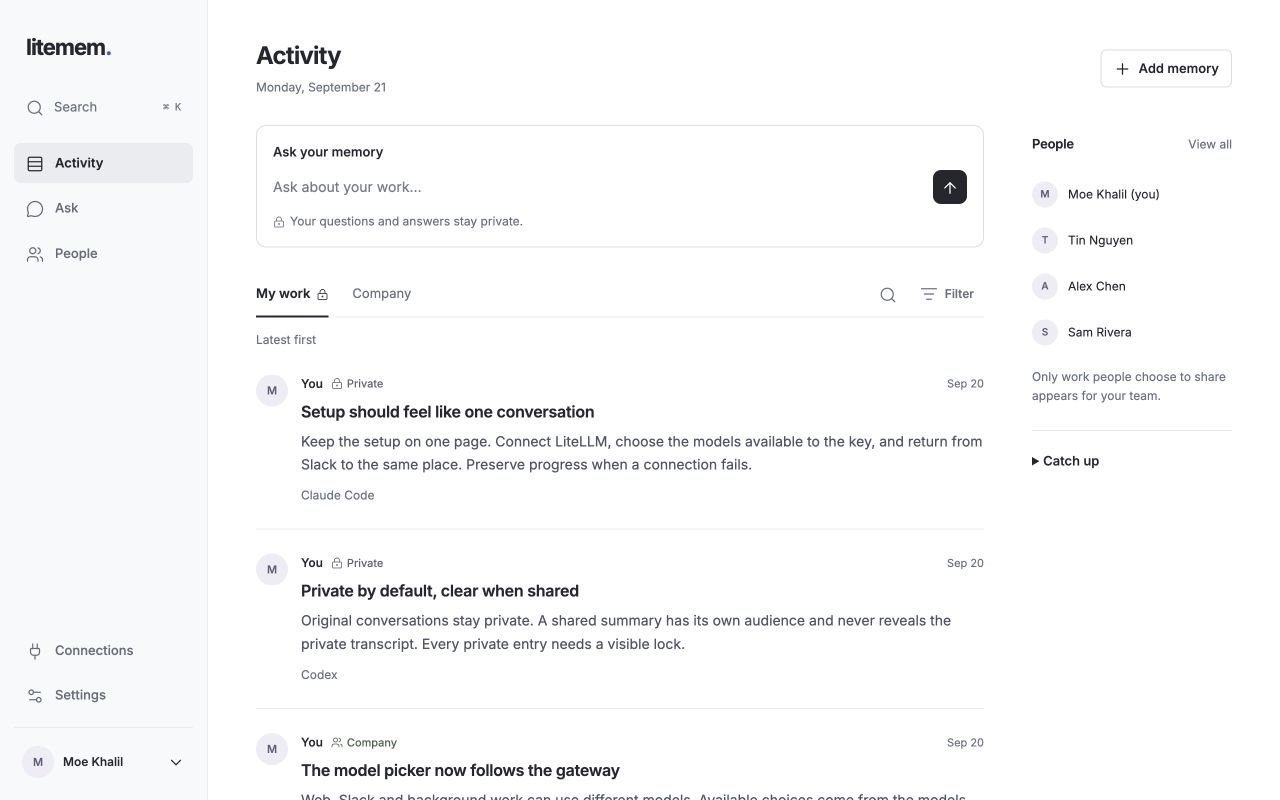
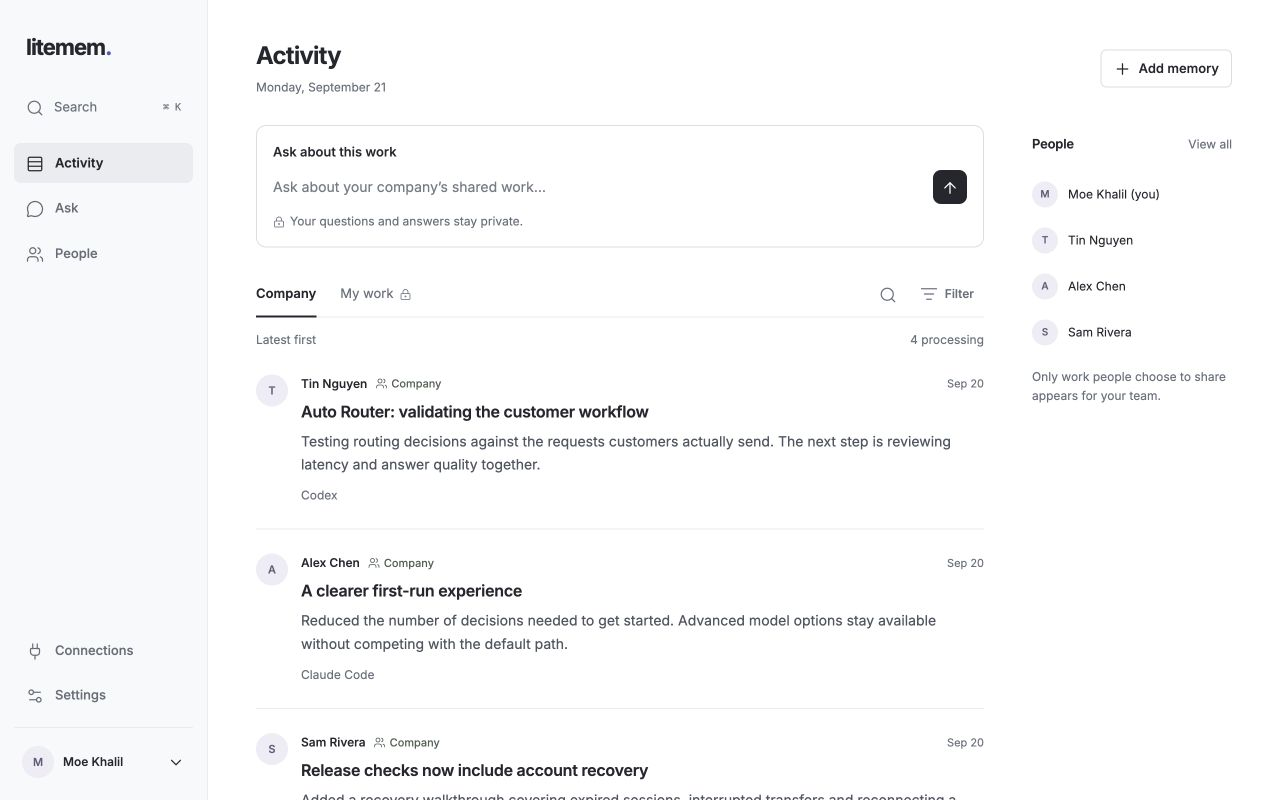
Open Activity on Company and match Ask to the selected feed

diff --git a/static/memory.html b/static/memory.html
@@ -11,7 +11,7 @@
       rel="icon"
     />
     <link href="/static/memory.css" rel="stylesheet" />
-    <script src="/static/memory.js?v=5" type="module"></script>
+    <script src="/static/memory.js?v=6" type="module"></script>
   </head>
   <body>
     <a class="skip" href="#main">Skip to content</a>
@@ -341,12 +341,12 @@
             <div class="activity-main">
               <form class="home-ask" id="home-ask-form">
                 <label class="home-ask-label" for="home-question"
-                  >Ask your memory</label
+                  >Ask about this work</label
                 ><input
                   autocomplete="off"
                   id="home-question"
                   maxlength="16000"
-                  placeholder="Ask anything about your work…"
+                  placeholder="Ask about your company’s shared work…"
                 /><button aria-label="Ask" class="send-button" type="submit">
                   <span data-icon="arrow"></span>
                 </button>
@@ -370,16 +370,12 @@
                   <button
                     aria-pressed="true"
                     class="selected"
-                    data-feed="mine"
-                    id="mine-tab"
-                  >
-                    My work <span data-icon="lock"></span></button
-                  ><button
-                    aria-pressed="false"
                     data-feed="shared"
                     id="shared-tab"
                   >
-                    Company
+                    Company</button
+                  ><button aria-pressed="false" data-feed="mine" id="mine-tab">
+                    My work <span data-icon="lock"></span>
                   </button>
                 </div>
                 <div class="feed-tools-end">

diff --git a/static/memory.js b/static/memory.js
@@ -11,7 +11,7 @@ const state = {
   me: null,
   people: [],
   view: "home",
-  feed: "mine",
+  feed: "shared",
   person: null,
   next: null,
   feedVersion: 0,
@@ -377,7 +377,9 @@ async function loadFeed(append = false) {
   $("home-question").placeholder =
     state.person && state.person !== state.me.id
       ? `Ask about ${profile(state.person).name}’s shared work…`
-      : "Ask about your work…";
+      : state.feed === "shared"
+        ? "Ask about your company’s shared work…"
+        : "Ask about your work…";
   if (!append) {
     state.overviewVersion++;
     $("overview-content").replaceChildren();
@@ -946,7 +948,9 @@ function updateScope() {
     : null;
   $("question").placeholder = person
     ? `Ask about ${person}’s shared work…`
-    : "Ask about your work…";
+    : scope === "shared"
+      ? "Ask about your company’s shared work…"
+      : "Ask about your work…";
   $("chat-scope-description").textContent = person
     ? `Answers use only the work ${person} has shared with you.`
     : scope === "shared"
@@ -1692,7 +1696,9 @@ $("home-ask-form").onsubmit = async (event) => {
   const scope =
     state.person && state.person !== state.me.id
       ? `person:${state.person}`
-      : "mine";
+      : state.feed === "shared"
+        ? "shared"
+        : "mine";
   if (!(await changeScope(scope))) return;
   $("home-question").value = "";
   await ask(question);

diff --git a/docs/member-guide.md b/docs/member-guide.md
@@ -14,7 +14,7 @@ An encrypted local outbox retries uploads when you are offline. **Settings → R
 
 ## Browse and ask
 
-**Activity** shows your work newest first. Private items have a lock and a **Private** label. **Company** shows company publications, without a recommendation algorithm. Filters narrow by person, source, type and date; search also uses searchable metadata. Missing original dates stay unknown.
+**Activity** opens on **Company**, showing company publications newest first, without a recommendation algorithm. **My work** is the second tab and shows your own private and shared records. Private items have a lock and a **Private** label. The Activity question box asks about the selected feed. Filters narrow by person, source, type and date; search also uses searchable metadata. Missing original dates stay unknown.
 
 Use the question box on Activity or open **Ask**. Choose a model from your gateway's available models, ask about your own work or choose a person, and open citations to inspect the evidence. You can ask follow-up questions within the same scope. Changing person or audience asks before clearing an existing conversation. Browser Back returns to the previous view.
 

diff --git a/.agents/skills/litemem-ui/references/screens.md b/.agents/skills/litemem-ui/references/screens.md
@@ -6,7 +6,9 @@ These recipes describe the existing product and how to extend it consistently. T
 
 **Task:** understand recent work, find an entry, or ask about it.
 
-**Order:** page title/date and optional Add memory → compact Ask surface → My work/Company selection and filters → chronology → evidence. People and catch-up context are secondary.
+**Order:** page title/date and optional Add memory → compact Ask surface → Company/My work selection and filters → chronology → evidence. Company comes first and is selected on a fresh visit. People and catch-up context are secondary.
+
+The home Ask form follows the selected feed: company-shared work, the user's own work, or a selected person's shared work. Its placeholder and query scope must agree. Switching feed does not publish or change anyone's access.
 
 Keep the feed chronological. The useful title and work excerpt are more prominent than source, timestamp, and processing count. Author identity adds social context; it should not consume more space than the work. The private lock and text remain visible even when metadata wraps.
 

diff --git a/docs/ui-review.md b/docs/ui-review.md
@@ -8,7 +8,7 @@ The maintained [litemem UI skill](../.agents/skills/litemem-ui/SKILL.md) explain
 
 ## Activity
 
-Ask directly, browse your work or company summaries, and open an entry to inspect its source. Private entries carry both a lock and a label.
+Company is the first tab and opens by default; My work is second. Ask about the selected feed, or open an entry to inspect its source. Private entries carry both a lock and a label.
 
 ![Activity](assets/dashboard.jpg)
 
